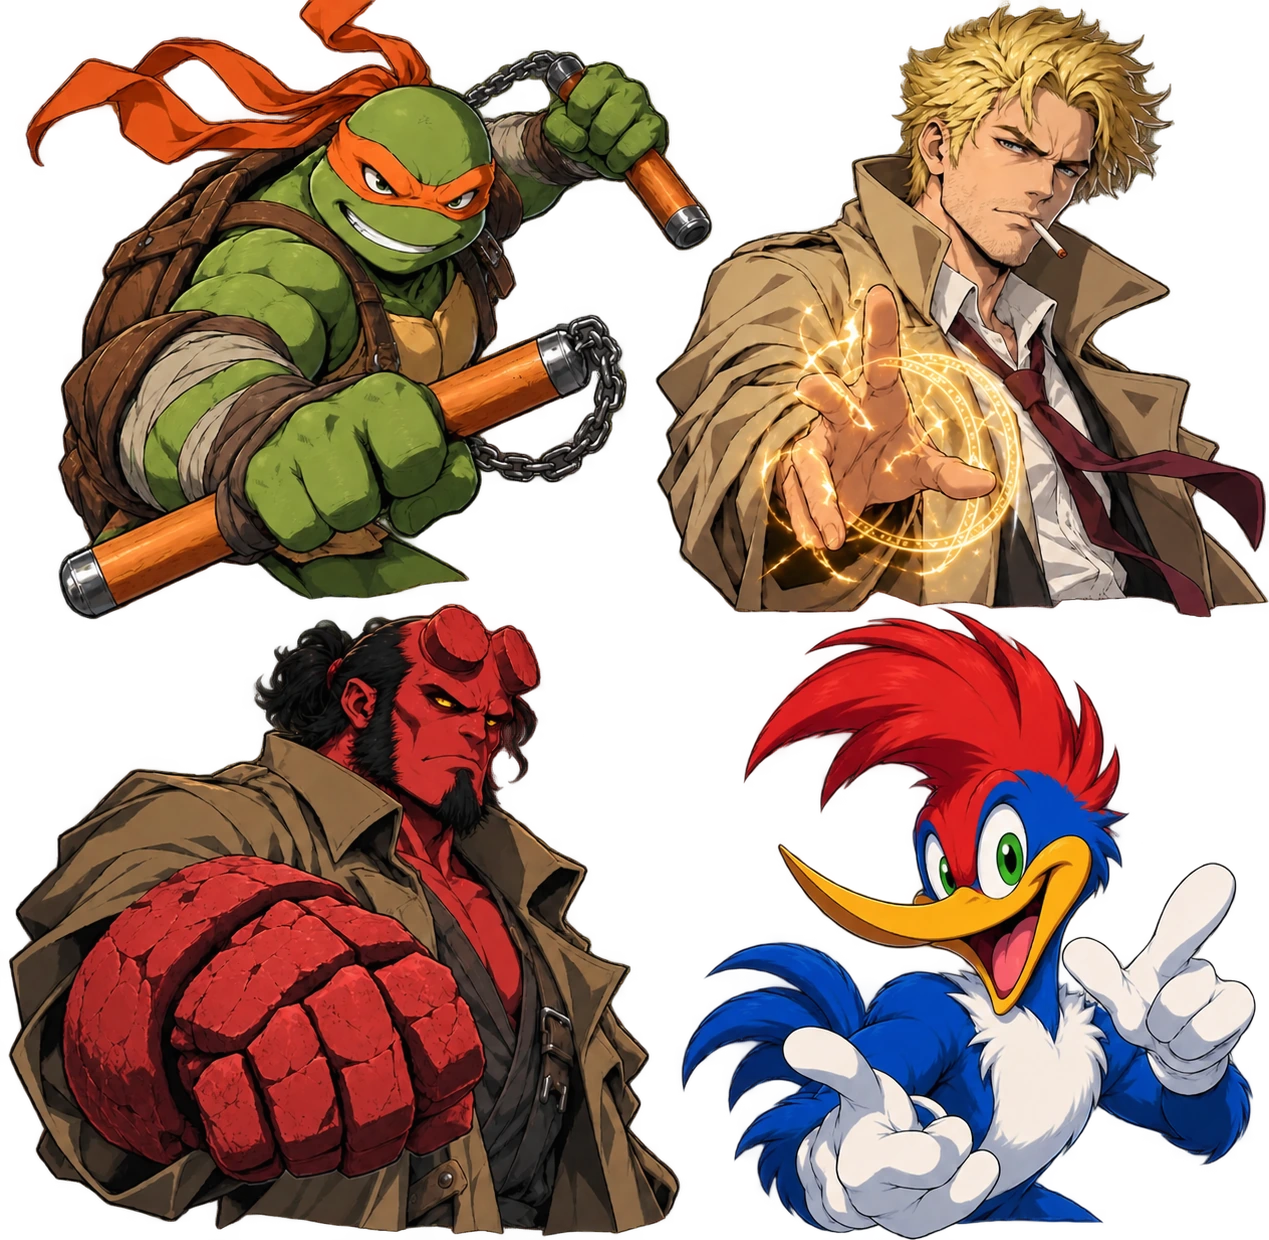
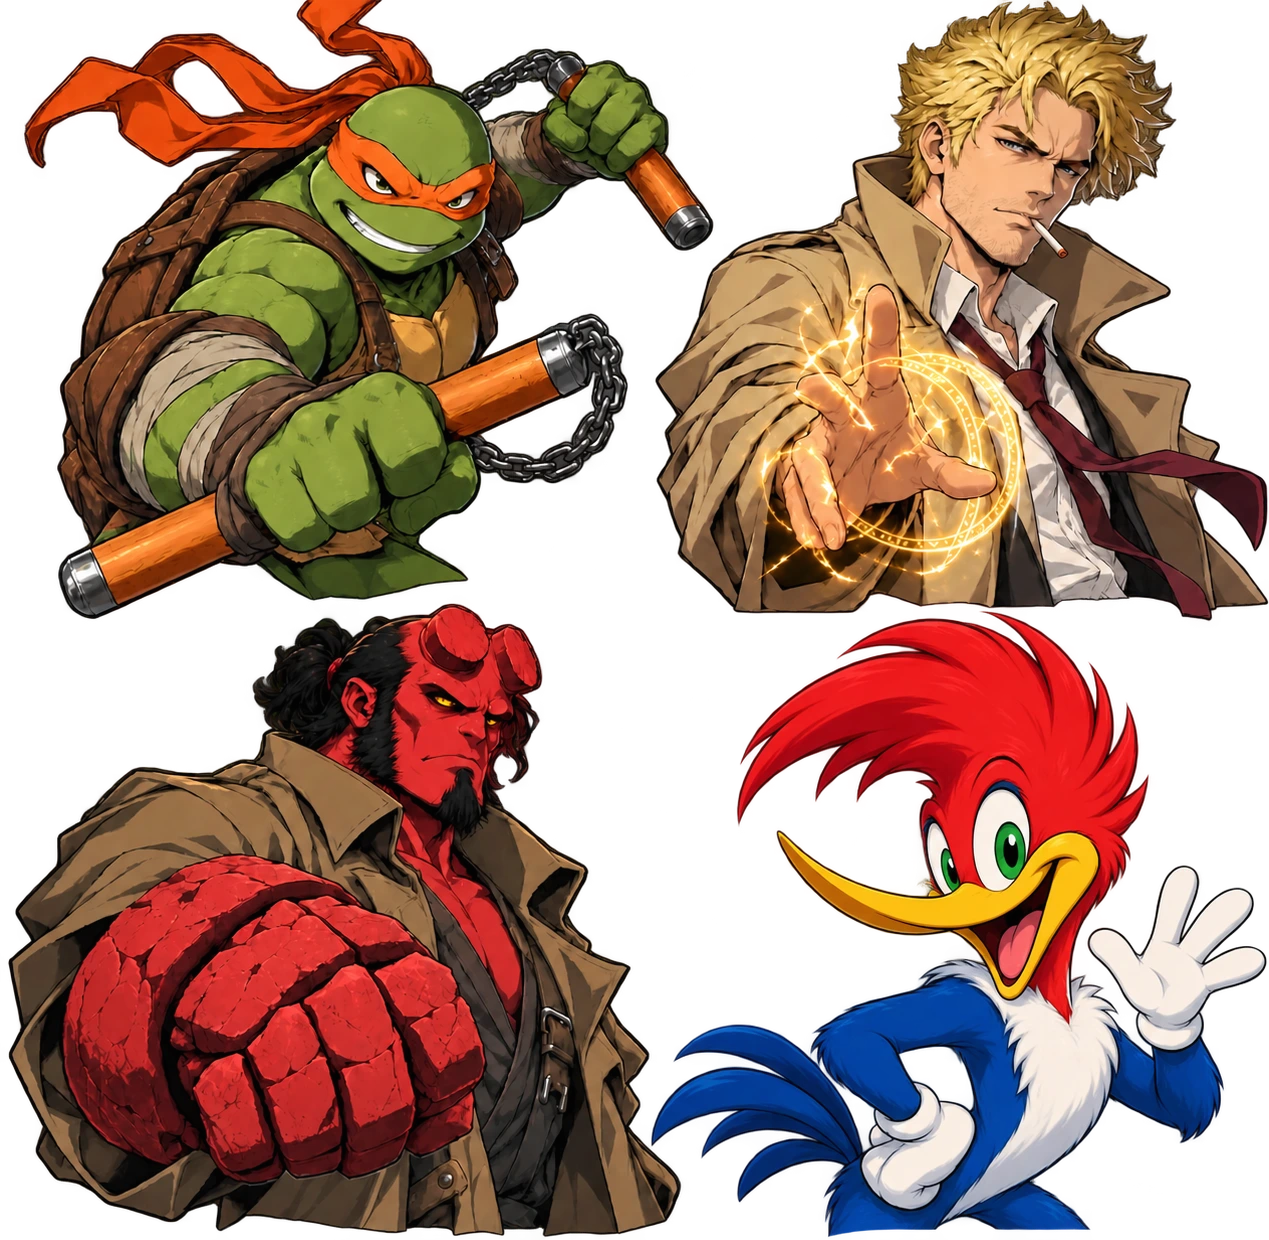
Correct Woody and SpongeBob portraits and add four anime heroes
Redraw Woody's face and pose without the blue head patch, give SpongeBob a friendly expression, and add Charizard, Garou, Genos and Yusuke from a new four-character transparent sheet.

diff --git a/tests/assets.test.ts b/tests/assets.test.ts
@@ -23,7 +23,7 @@ describe('Arte local e composição',()=>{
     const approved=new Set(approvedPortraits);
     const expanded=characters.slice(100);
     expect(approved.size).toBe(approvedPortraits.length);
-    expect(expanded.filter(character=>approved.has(character.id))).toHaveLength(110);
+    expect(expanded.filter(character=>approved.has(character.id))).toHaveLength(116);
     for(const character of expanded){
       const reviewed=approved.has(character.id);
       expect(character.portrait).toBe(reviewed

diff --git a/scripts/create-expanded-portraits.py b/scripts/create-expanded-portraits.py
@@ -51,6 +51,8 @@ def main() -> None:
             for slot, character in selected:
                 column, row = slot % 2, slot // 2
                 left = round(column * image.width / 2) + 6
+                if character['id'] == 'picapau':
+                    left += 24  # Keep Hellboy's fist outside this neighboring portrait.
                 top = round(row * image.height / 2) + 6
                 right = round((column+1) * image.width / 2) - 6
                 bottom = round((row+1) * image.height / 2) - 6
